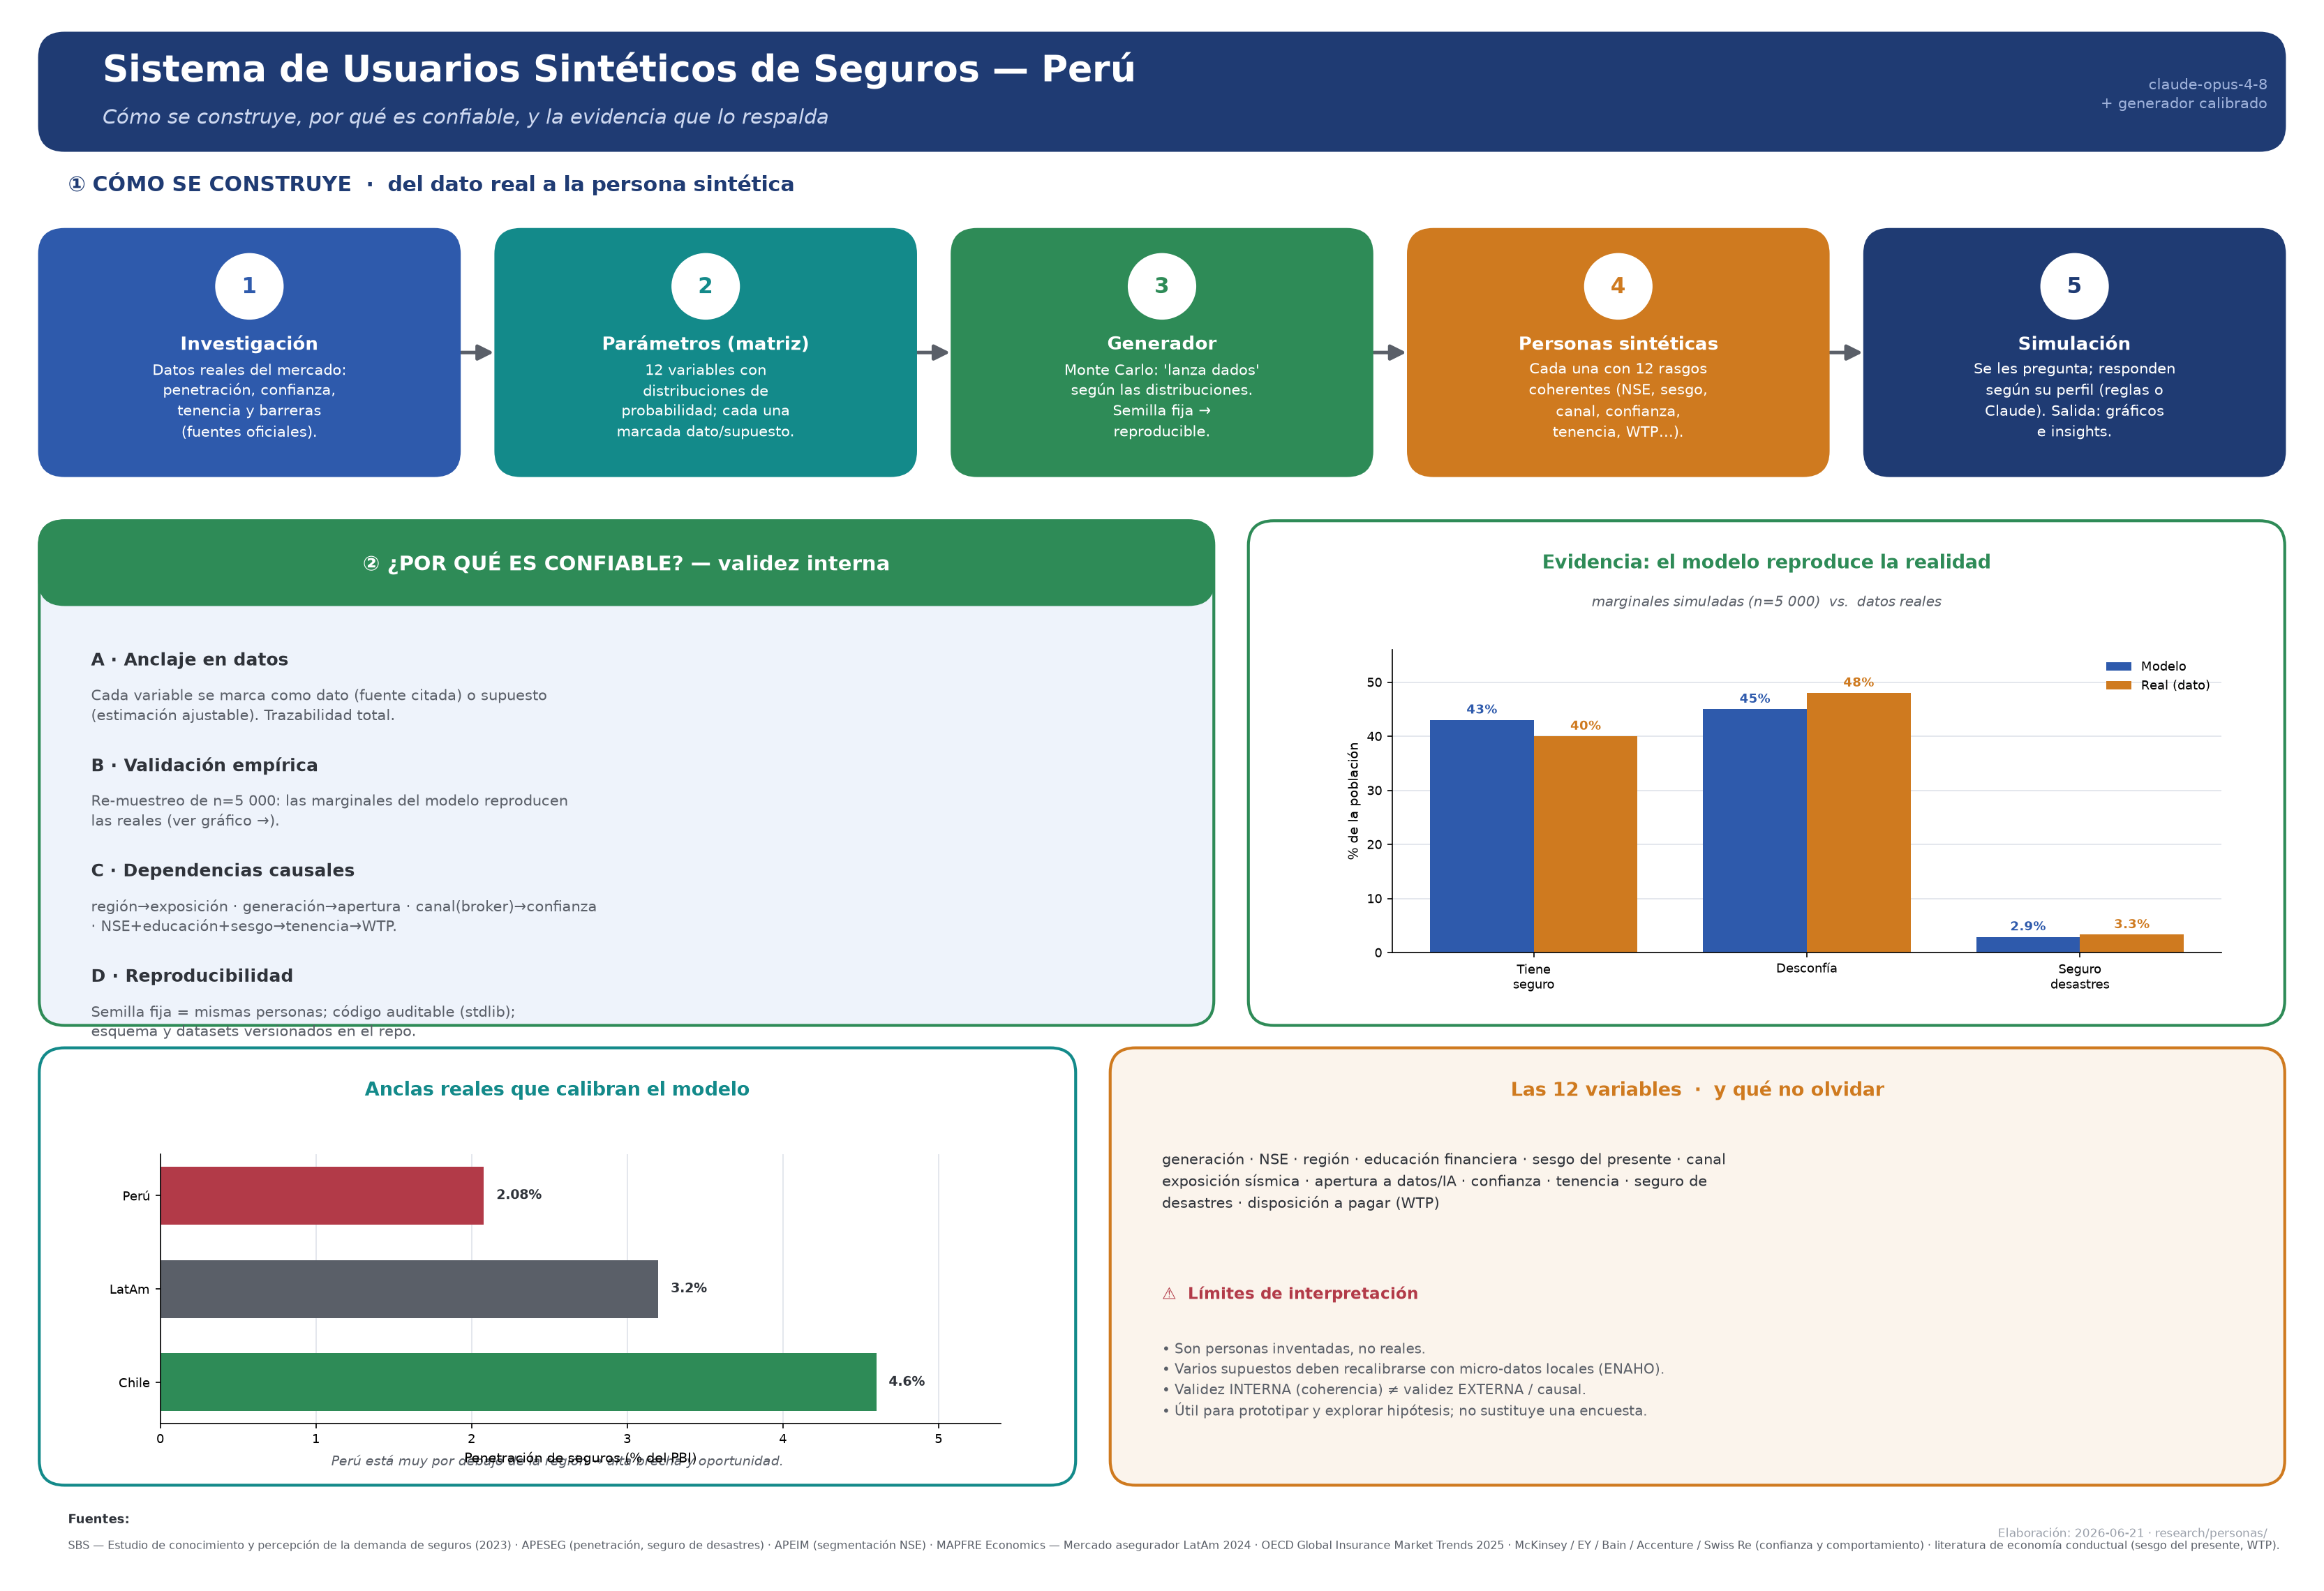
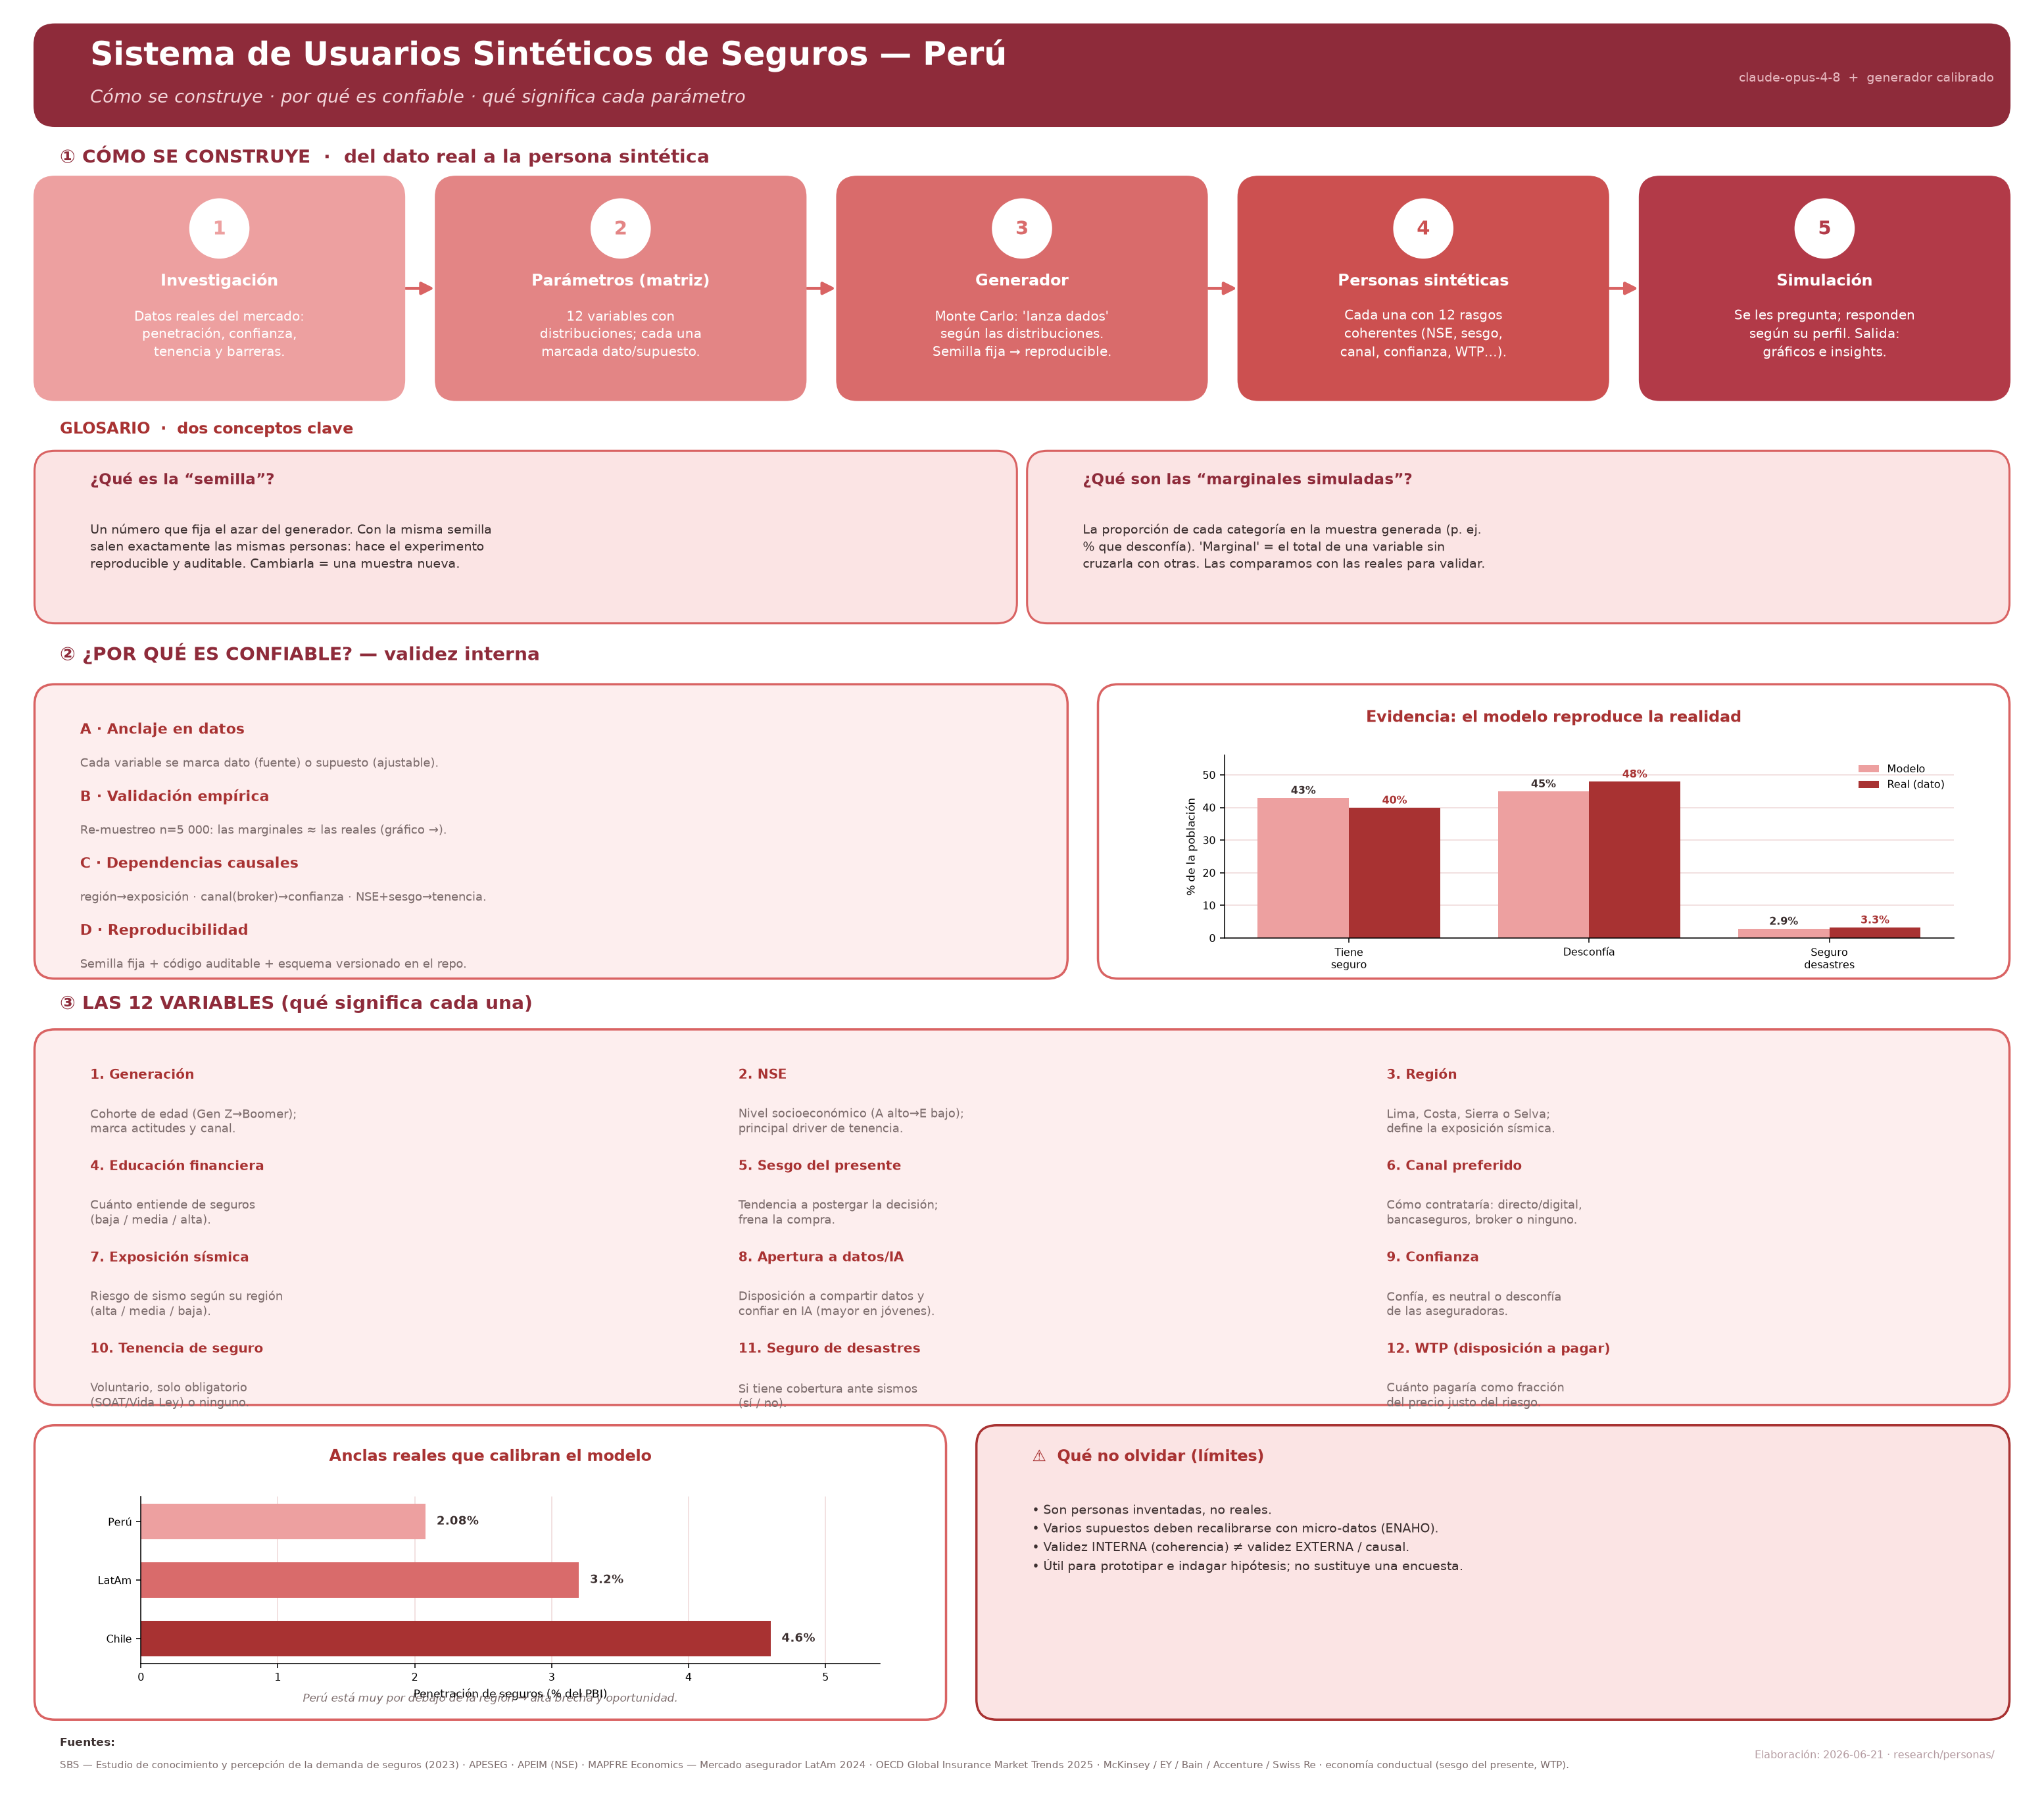
Redesign lamina v4: pastel-red gradient, glossary (seed + marginals), 12 variables explained, no overlaps
Claude-Session: https://claude.ai/code/session_01UjpwF34KdMTUN8DdFp6zKq

diff --git a/research/personas/build_lamina_detalle.py b/research/personas/build_lamina_detalle.py
@@ -1,9 +1,10 @@
 #!/usr/bin/env python3
-"""Lamina v3 (detallada) del sistema de usuarios sinteticos de seguros.
+"""Lamina v4 (detallada, paleta rojo pastel con degrade) del sistema de
+usuarios sinteticos de seguros.
 
-Diseno de una pagina con: pipeline detallado, pilares de validez interna, dos
-graficos de evidencia (validacion modelo vs. realidad; anclas reales de mercado)
-y referencias al pie.
+Incluye: pipeline, validez interna + grafico de validacion, glosario (semilla /
+marginales simuladas), las 12 variables explicadas, grafico de anclas reales,
+limites y referencias. Lienzo alto para evitar solapamientos.
 
 Salida: research/personas/lamina_sistema_usuarios_sinteticos_detalle.png
 """
@@ -12,24 +13,29 @@ matplotlib.use("Agg")
 import matplotlib.pyplot as plt
 from matplotlib.patches import FancyBboxPatch, FancyArrowPatch, Circle
 
-AZUL  = "#1f3b73"; AZUL2 = "#2e5aac"; CYAN = "#138a8a"; VERDE = "#2e8b57"
-NARANJA = "#cf7a1f"; ROJO = "#b23a48"; GRIS = "#2f333a"; GRISL = "#5a5f68"
-BLANCO = "#ffffff"; LINEA = "#dfe3ea"
+# --- Paleta: rojo pastel con degrade ---
+RED_DEEP = "#8e2b3a"            # encabezados fuertes
+RED_GRAD = ["#eda0a0", "#e38585", "#d96b6b", "#cc5050", "#b23a48"]  # claro -> oscuro
+RED_LT   = "#fdeeee"           # fondos suaves
+RED_LT2  = "#fbe4e4"
+RED_MED  = "#d96363"
+RED_DK   = "#a83232"
+GRIS  = "#3b2f2f"; GRISL = "#7c6c6c"; LINEA = "#efd9d9"; BLANCO = "#ffffff"
 
-W, H = 200.0, 140.0
-fig = plt.figure(figsize=(22, 15), dpi=150)
+W, H = 200.0, 176.0
+fig = plt.figure(figsize=(22, 19.4), dpi=140)
 fig.patch.set_facecolor(BLANCO)
 bg = fig.add_axes([0, 0, 1, 1]); bg.set_xlim(0, W); bg.set_ylim(0, H); bg.axis("off")
 
 
 def rbox(x, y, w, h, fc, ec=None, lw=1.6):
-    bg.add_patch(FancyBboxPatch((x, y), w, h, boxstyle="round,pad=0.5,rounding_size=2.2",
+    bg.add_patch(FancyBboxPatch((x, y), w, h, boxstyle="round,pad=0.5,rounding_size=2.0",
                  linewidth=lw, facecolor=fc, edgecolor=ec or fc, zorder=2))
 
 
-def arrow(x1, y1, x2, y2, c=GRISL):
+def arrow(x1, y1, x2, y2, c=RED_MED):
     bg.add_patch(FancyArrowPatch((x1, y1), (x2, y2), arrowstyle="-|>",
-                 mutation_scale=22, linewidth=2.4, color=c, zorder=1))
+                 mutation_scale=20, linewidth=2.4, color=c, zorder=1))
 
 
 def inset(x0, y0, x1, y1):
@@ -37,122 +43,150 @@ def inset(x0, y0, x1, y1):
 
 
 # ---------- Titulo ----------
-rbox(3, 128, 194, 9.5, AZUL, ec=AZUL)
-bg.text(8, 134.6, "Sistema de Usuarios Sintéticos de Seguros — Perú",
+rbox(3, 165, 194, 9, RED_DEEP, ec=RED_DEEP)
+bg.text(8, 171.4, "Sistema de Usuarios Sintéticos de Seguros — Perú",
         ha="left", va="center", color="white", fontsize=25, fontweight="bold")
-bg.text(8, 130.4, "Cómo se construye, por qué es confiable, y la evidencia que lo respalda",
-        ha="left", va="center", color="#cdd8f0", fontsize=14, style="italic")
-bg.text(196, 132.5, "claude-opus-4-8\n+ generador calibrado", ha="right", va="center",
-        color="#9fb2db", fontsize=10, linespacing=1.3)
+bg.text(8, 167.3, "Cómo se construye · por qué es confiable · qué significa cada parámetro",
+        ha="left", va="center", color="#f3d6da", fontsize=14, style="italic")
+bg.text(196, 169.2, "claude-opus-4-8  +  generador calibrado", ha="right", va="center",
+        color="#e7b9c0", fontsize=10)
 
-# ---------- Pipeline ----------
-bg.text(5, 124.5, "① CÓMO SE CONSTRUYE  ·  del dato real a la persona sintética",
-        ha="left", va="center", color=AZUL, fontsize=14.5, fontweight="bold")
+# ---------- ① Pipeline ----------
+bg.text(5, 161.5, "① CÓMO SE CONSTRUYE  ·  del dato real a la persona sintética",
+        ha="left", va="center", color=RED_DEEP, fontsize=14.5, fontweight="bold")
 steps = [
-    (AZUL2, "1", "Investigación", "Datos reales del mercado:\npenetración, confianza,\ntenencia y barreras\n(fuentes oficiales)."),
-    (CYAN, "2", "Parámetros (matriz)", "12 variables con\ndistribuciones de\nprobabilidad; cada una\nmarcada dato/supuesto."),
-    (VERDE, "3", "Generador", "Monte Carlo: 'lanza dados'\nsegún las distribuciones.\nSemilla fija →\nreproducible."),
-    (NARANJA, "4", "Personas sintéticas", "Cada una con 12 rasgos\ncoherentes (NSE, sesgo,\ncanal, confianza,\ntenencia, WTP…)."),
-    (AZUL, "5", "Simulación", "Se les pregunta; responden\nsegún su perfil (reglas o\nClaude). Salida: gráficos\ne insights."),
+    ("1", "Investigación", "Datos reales del mercado:\npenetración, confianza,\ntenencia y barreras."),
+    ("2", "Parámetros (matriz)", "12 variables con\ndistribuciones; cada una\nmarcada dato/supuesto."),
+    ("3", "Generador", "Monte Carlo: 'lanza dados'\nsegún las distribuciones.\nSemilla fija → reproducible."),
+    ("4", "Personas sintéticas", "Cada una con 12 rasgos\ncoherentes (NSE, sesgo,\ncanal, confianza, WTP…)."),
+    ("5", "Simulación", "Se les pregunta; responden\nsegún su perfil. Salida:\ngráficos e insights."),
 ]
-w, h, y0 = 35.5, 21, 99
+w, h, y0 = 35.5, 21, 138
 gap = (194 - 5 * w) / 4
 x = 3; centers = []
-for col, num, title, body in steps:
+for (num, title, body), col in zip(steps, RED_GRAD):
     rbox(x, y0, w, h, col, ec=col)
     bg.add_patch(Circle((x + w / 2, y0 + h - 4.6), 3.1, facecolor="white", edgecolor=col, lw=2, zorder=3))
     bg.text(x + w / 2, y0 + h - 4.7, num, ha="center", va="center", color=col, fontsize=15, fontweight="bold", zorder=4)
     bg.text(x + w / 2, y0 + h - 9.8, title, ha="center", va="center", color="white", fontsize=12.5, fontweight="bold")
-    bg.text(x + w / 2, y0 + 6.2, body, ha="center", va="center", color="white", fontsize=10.3, linespacing=1.4)
+    bg.text(x + w / 2, y0 + 6.0, body, ha="center", va="center", color="white", fontsize=10.2, linespacing=1.4)
     centers.append((x, x + w)); x += w + gap
 for i in range(4):
     arrow(centers[i][1] + 0.4, y0 + h / 2, centers[i + 1][0] - 0.4, y0 + h / 2)
 
-# ---------- Banda media: validez (izq) + grafico validacion (der) ----------
-# Izquierda: pilares de validez
-rbox(3, 50, 101, 44, "#eef3fb", ec=VERDE, lw=2)
-rbox(3, 87.5, 101, 6.5, VERDE, ec=VERDE)
-bg.text(53.5, 90.7, "② ¿POR QUÉ ES CONFIABLE? — validez interna", ha="center", va="center",
-        color="white", fontsize=14, fontweight="bold")
-pillars = [
-    ("A · Anclaje en datos", "Cada variable se marca como dato (fuente citada) o supuesto\n(estimación ajustable). Trazabilidad total."),
-    ("B · Validación empírica", "Re-muestreo de n=5 000: las marginales del modelo reproducen\nlas reales (ver gráfico →)."),
-    ("C · Dependencias causales", "región→exposición · generación→apertura · canal(broker)→confianza\n· NSE+educación+sesgo→tenencia→WTP."),
-    ("D · Reproducibilidad", "Semilla fija = mismas personas; código auditable (stdlib);\nesquema y datasets versionados en el repo."),
+# ---------- Glosario: semilla + marginales ----------
+bg.text(5, 134.6, "GLOSARIO  ·  dos conceptos clave", ha="left", va="center",
+        color=RED_DK, fontsize=12.5, fontweight="bold")
+gloss = [
+    (3, "¿Qué es la “semilla”?",
+     "Un número que fija el azar del generador. Con la misma semilla\n"
+     "salen exactamente las mismas personas: hace el experimento\n"
+     "reproducible y auditable. Cambiarla = una muestra nueva."),
+    (101, "¿Qué son las “marginales simuladas”?",
+     "La proporción de cada categoría en la muestra generada (p. ej.\n"
+     "% que desconfía). 'Marginal' = el total de una variable sin\n"
+     "cruzarla con otras. Las comparamos con las reales para validar."),
 ]
-py = 82
-for head, body in pillars:
-    bg.text(7, py, head, ha="left", va="center", color=GRIS, fontsize=12, fontweight="bold")
-    bg.text(7, py - 4.0, body, ha="left", va="center", color=GRISL, fontsize=10, linespacing=1.35)
-    py -= 9.4
+for gx, head, body in gloss:
+    rbox(gx, 116, 96, 16, RED_LT2, ec=RED_MED, lw=1.6)
+    bg.text(gx + 5, 129.6, head, ha="left", va="center", color=RED_DEEP, fontsize=12, fontweight="bold")
+    bg.text(gx + 5, 123.0, body, ha="left", va="center", color=GRIS, fontsize=9.6, linespacing=1.4)
 
-# Derecha: grafico de validacion (evidencia fuerte)
-rbox(108, 50, 89, 44, BLANCO, ec=VERDE, lw=2)
-bg.text(152.5, 90.7, "Evidencia: el modelo reproduce la realidad", ha="center", va="center",
-        color=VERDE, fontsize=13, fontweight="bold")
-bg.text(152.5, 87.2, "marginales simuladas (n=5 000)  vs.  datos reales", ha="center", va="center",
-        color=GRISL, fontsize=9.5, style="italic")
-axv = inset(120, 56, 192, 83)
+# ---------- ② Validez (izq) + grafico validacion (der) ----------
+bg.text(5, 112.5, "② ¿POR QUÉ ES CONFIABLE? — validez interna", ha="left", va="center",
+        color=RED_DEEP, fontsize=14.5, fontweight="bold")
+rbox(3, 81, 101, 28, RED_LT, ec=RED_MED, lw=1.8)
+pillars = [
+    ("A · Anclaje en datos", "Cada variable se marca dato (fuente) o supuesto (ajustable)."),
+    ("B · Validación empírica", "Re-muestreo n=5 000: las marginales ≈ las reales (gráfico →)."),
+    ("C · Dependencias causales", "región→exposición · canal(broker)→confianza · NSE+sesgo→tenencia."),
+    ("D · Reproducibilidad", "Semilla fija + código auditable + esquema versionado en el repo."),
+]
+py = 105
+for head, body in pillars:
+    bg.text(7, py, head, ha="left", va="center", color=RED_DK, fontsize=11.5, fontweight="bold")
+    bg.text(7, py - 3.3, body, ha="left", va="center", color=GRISL, fontsize=9.4, linespacing=1.3)
+    py -= 6.6
+
+rbox(108, 81, 89, 28, BLANCO, ec=RED_MED, lw=1.8)
+bg.text(152.5, 106.2, "Evidencia: el modelo reproduce la realidad", ha="center", va="center",
+        color=RED_DK, fontsize=12.5, fontweight="bold")
+axv = inset(120, 84.5, 192, 102.5)
 cats = ["Tiene\nseguro", "Desconfía", "Seguro\ndesastres"]
 modelo = [43, 45, 2.9]; real = [40, 48, 3.3]
 xs = range(len(cats)); bw = 0.38
-axv.bar([i - bw / 2 for i in xs], modelo, bw, label="Modelo", color=AZUL2)
-axv.bar([i + bw / 2 for i in xs], real, bw, label="Real (dato)", color=NARANJA)
+axv.bar([i - bw / 2 for i in xs], modelo, bw, label="Modelo", color=RED_GRAD[0])
+axv.bar([i + bw / 2 for i in xs], real, bw, label="Real (dato)", color=RED_DK)
 for i in xs:
-    axv.text(i - bw / 2, modelo[i] + 1.2, f"{modelo[i]}%", ha="center", fontsize=8.5, color=AZUL2, fontweight="bold")
-    axv.text(i + bw / 2, real[i] + 1.2, f"{real[i]}%", ha="center", fontsize=8.5, color=NARANJA, fontweight="bold")
-axv.set_xticks(list(xs)); axv.set_xticklabels(cats, fontsize=9)
-axv.set_ylim(0, 56); axv.set_ylabel("% de la población", fontsize=9)
-axv.legend(fontsize=8.5, loc="upper right", frameon=False)
-axv.spines[["top", "right"]].set_visible(False)
-axv.tick_params(labelsize=8.5)
+    axv.text(i - bw / 2, modelo[i] + 1.2, f"{modelo[i]}%", ha="center", fontsize=8, color=GRIS, fontweight="bold")
+    axv.text(i + bw / 2, real[i] + 1.2, f"{real[i]}%", ha="center", fontsize=8, color=RED_DK, fontweight="bold")
+axv.set_xticks(list(xs)); axv.set_xticklabels(cats, fontsize=8.5)
+axv.set_ylim(0, 56); axv.set_ylabel("% de la población", fontsize=8.5)
+axv.legend(fontsize=8, loc="upper right", frameon=False)
+axv.spines[["top", "right"]].set_visible(False); axv.tick_params(labelsize=8)
 axv.set_axisbelow(True); axv.grid(axis="y", color=LINEA, lw=0.8)
 
-# ---------- Banda baja: grafico anclas (izq) + variables/limites (der) ----------
-rbox(3, 9, 89, 38, BLANCO, ec=CYAN, lw=2)
-bg.text(47.5, 43.7, "Anclas reales que calibran el modelo", ha="center", va="center",
-        color=CYAN, fontsize=13, fontweight="bold")
-axa = inset(13, 14, 86, 38)
-labels = ["Perú", "LatAm", "Chile"]
-vals = [2.08, 3.2, 4.6]; cols = [ROJO, GRISL, VERDE]
-axa.barh(range(len(labels)), vals, color=cols, height=0.62)
+# ---------- ③ Las 12 variables explicadas ----------
+bg.text(5, 78.0, "③ LAS 12 VARIABLES (qué significa cada una)", ha="left", va="center",
+        color=RED_DEEP, fontsize=14.5, fontweight="bold")
+rbox(3, 39, 194, 36, RED_LT, ec=RED_MED, lw=1.8)
+variables = [
+    ("Generación", "Cohorte de edad (Gen Z→Boomer);\nmarca actitudes y canal."),
+    ("NSE", "Nivel socioeconómico (A alto→E bajo);\nprincipal driver de tenencia."),
+    ("Región", "Lima, Costa, Sierra o Selva;\ndefine la exposición sísmica."),
+    ("Educación financiera", "Cuánto entiende de seguros\n(baja / media / alta)."),
+    ("Sesgo del presente", "Tendencia a postergar la decisión;\nfrena la compra."),
+    ("Canal preferido", "Cómo contrataría: directo/digital,\nbancaseguros, broker o ninguno."),
+    ("Exposición sísmica", "Riesgo de sismo según su región\n(alta / media / baja)."),
+    ("Apertura a datos/IA", "Disposición a compartir datos y\nconfiar en IA (mayor en jóvenes)."),
+    ("Confianza", "Confía, es neutral o desconfía\nde las aseguradoras."),
+    ("Tenencia de seguro", "Voluntario, solo obligatorio\n(SOAT/Vida Ley) o ninguno."),
+    ("Seguro de desastres", "Si tiene cobertura ante sismos\n(sí / no)."),
+    ("WTP (disposición a pagar)", "Cuánto pagaría como fracción\ndel precio justo del riesgo."),
+]
+col_x = [8, 72, 136]
+row_y = [71, 62, 53, 44]
+for idx, (name, desc) in enumerate(variables):
+    cx = col_x[idx % 3]; ry = row_y[idx // 3]
+    bg.text(cx, ry, f"{idx+1}. {name}", ha="left", va="center", color=RED_DK, fontsize=10.5, fontweight="bold")
+    bg.text(cx, ry - 3.1, desc, ha="left", va="top", color=GRISL, fontsize=9.0, linespacing=1.3)
+
+# ---------- Anclas reales (izq) + limites (der) ----------
+rbox(3, 8, 89, 28, BLANCO, ec=RED_MED, lw=1.8)
+bg.text(47.5, 33.4, "Anclas reales que calibran el modelo", ha="center", va="center",
+        color=RED_DK, fontsize=12.5, fontweight="bold")
+axa = inset(13, 13, 86, 29.5)
+labels = ["Perú", "LatAm", "Chile"]; vals = [2.08, 3.2, 4.6]
+axa.barh(range(3), vals, color=[RED_GRAD[0], RED_GRAD[2], RED_DK], height=0.6)
 for i, v in enumerate(vals):
     axa.text(v + 0.08, i, f"{v}%", va="center", fontsize=9, fontweight="bold", color=GRIS)
-axa.set_yticks(range(len(labels))); axa.set_yticklabels(labels, fontsize=9.5)
+axa.set_yticks(range(3)); axa.set_yticklabels(labels, fontsize=9)
 axa.invert_yaxis(); axa.set_xlim(0, 5.4)
-axa.set_xlabel("Penetración de seguros (% del PBI)", fontsize=9)
-axa.spines[["top", "right"]].set_visible(False); axa.tick_params(labelsize=8.5)
+axa.set_xlabel("Penetración de seguros (% del PBI)", fontsize=8.5)
+axa.spines[["top", "right"]].set_visible(False); axa.tick_params(labelsize=8)
 axa.set_axisbelow(True); axa.grid(axis="x", color=LINEA, lw=0.8)
-bg.text(47.5, 10.6, "Perú está muy por debajo de la región → alta brecha y oportunidad.",
-        ha="center", va="center", color=GRISL, fontsize=9, style="italic")
+bg.text(47.5, 9.6, "Perú está muy por debajo de la región → alta brecha y oportunidad.",
+        ha="center", va="center", color=GRISL, fontsize=8.8, style="italic")
 
-# Derecha: variables + limites
-rbox(96, 9, 101, 38, "#fbf4ec", ec=NARANJA, lw=2)
-bg.text(146.5, 43.7, "Las 12 variables  ·  y qué no olvidar", ha="center", va="center",
-        color=NARANJA, fontsize=13, fontweight="bold")
-bg.text(100, 38.5,
-        "generación · NSE · región · educación financiera · sesgo del presente · canal\n"
-        "exposición sísmica · apertura a datos/IA · confianza · tenencia · seguro de\n"
-        "desastres · disposición a pagar (WTP)",
-        ha="left", va="top", color=GRIS, fontsize=10, linespacing=1.5)
-bg.text(100, 25.5, "⚠  Límites de interpretación", ha="left", va="center", color=ROJO,
-        fontsize=11, fontweight="bold")
-bg.text(100, 21.5,
+rbox(96, 8, 101, 28, RED_LT2, ec=RED_DK, lw=1.8)
+bg.text(101, 33.4, "⚠  Qué no olvidar (límites)", ha="left", va="center",
+        color=RED_DK, fontsize=12.5, fontweight="bold")
+bg.text(101, 29.0,
         "• Son personas inventadas, no reales.\n"
-        "• Varios supuestos deben recalibrarse con micro-datos locales (ENAHO).\n"
+        "• Varios supuestos deben recalibrarse con micro-datos (ENAHO).\n"
         "• Validez INTERNA (coherencia) ≠ validez EXTERNA / causal.\n"
-        "• Útil para prototipar y explorar hipótesis; no sustituye una encuesta.",
-        ha="left", va="top", color=GRISL, fontsize=9.6, linespacing=1.45)
+        "• Útil para prototipar e indagar hipótesis; no sustituye una encuesta.",
+        ha="left", va="top", color=GRIS, fontsize=9.6, linespacing=1.5)
 
 # ---------- Referencias (pequeñas) ----------
-bg.text(5, 5.4, "Fuentes:", ha="left", va="center", color=GRIS, fontsize=8.5, fontweight="bold")
-bg.text(5, 3.1,
-        "SBS — Estudio de conocimiento y percepción de la demanda de seguros (2023) · APESEG (penetración, seguro de desastres) · "
-        "APEIM (segmentación NSE) · MAPFRE Economics — Mercado asegurador LatAm 2024 · OECD Global Insurance Market Trends 2025 · "
-        "McKinsey / EY / Bain / Accenture / Swiss Re (confianza y comportamiento) · literatura de economía conductual (sesgo del presente, WTP).",
-        ha="left", va="center", color=GRISL, fontsize=7.6)
-bg.text(196, 4.2, "Elaboración: 2026-06-21 · research/personas/", ha="right", va="center",
-        color="#9aa0aa", fontsize=8)
+bg.text(5, 5.2, "Fuentes:", ha="left", va="center", color=GRIS, fontsize=8.5, fontweight="bold")
+bg.text(5, 3.0,
+        "SBS — Estudio de conocimiento y percepción de la demanda de seguros (2023) · APESEG · APEIM (NSE) · "
+        "MAPFRE Economics — Mercado asegurador LatAm 2024 · OECD Global Insurance Market Trends 2025 · "
+        "McKinsey / EY / Bain / Accenture / Swiss Re · economía conductual (sesgo del presente, WTP).",
+        ha="left", va="center", color=GRISL, fontsize=7.5)
+bg.text(196, 4.0, "Elaboración: 2026-06-21 · research/personas/", ha="right", va="center",
+        color="#b39aa0", fontsize=8)
 
 plt.savefig("research/personas/lamina_sistema_usuarios_sinteticos_detalle.png",
             facecolor=BLANCO, bbox_inches="tight")